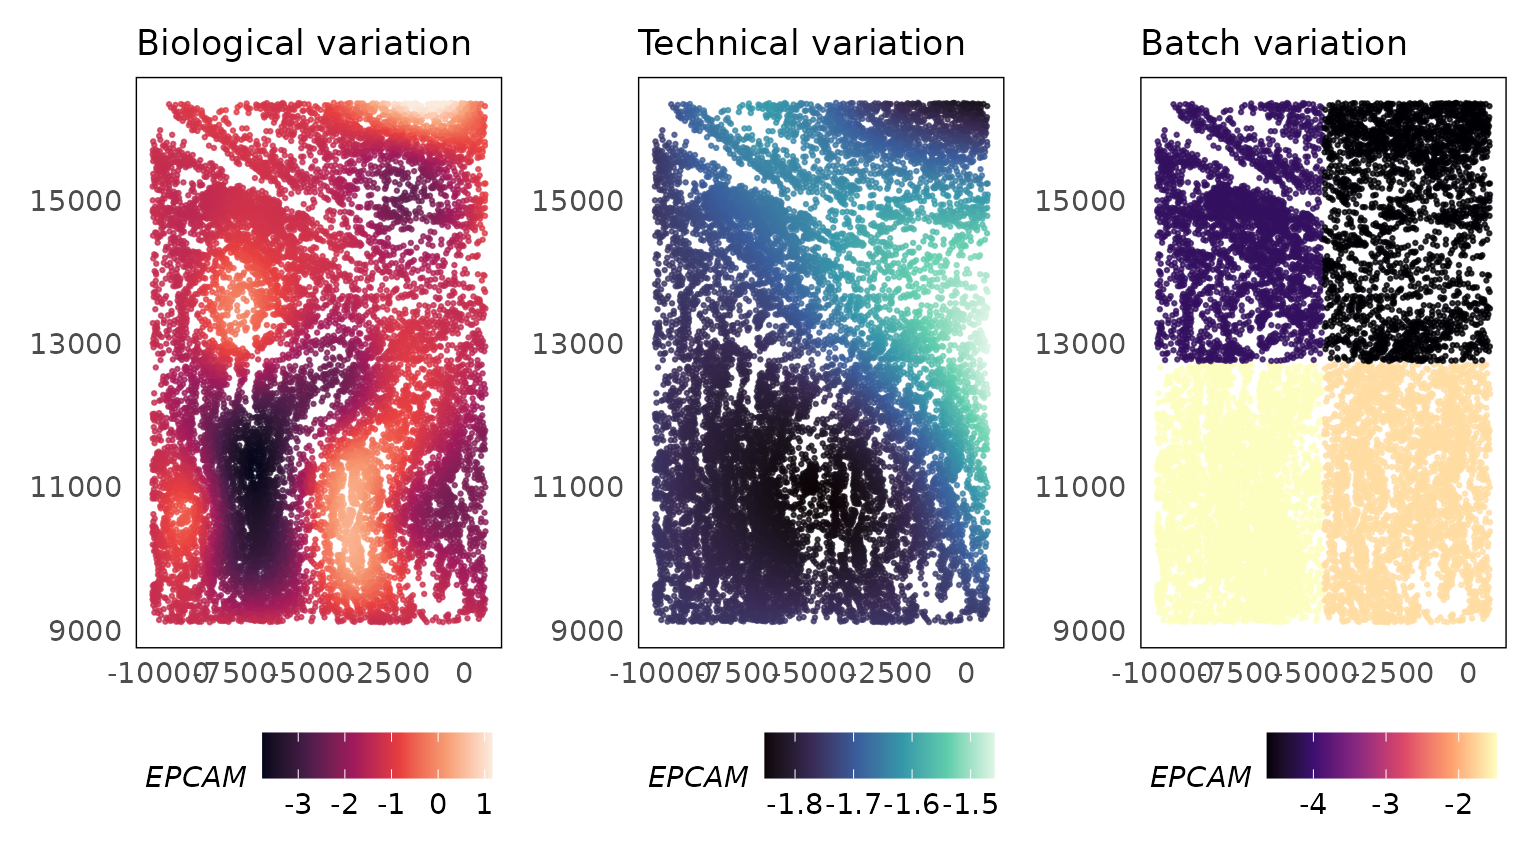
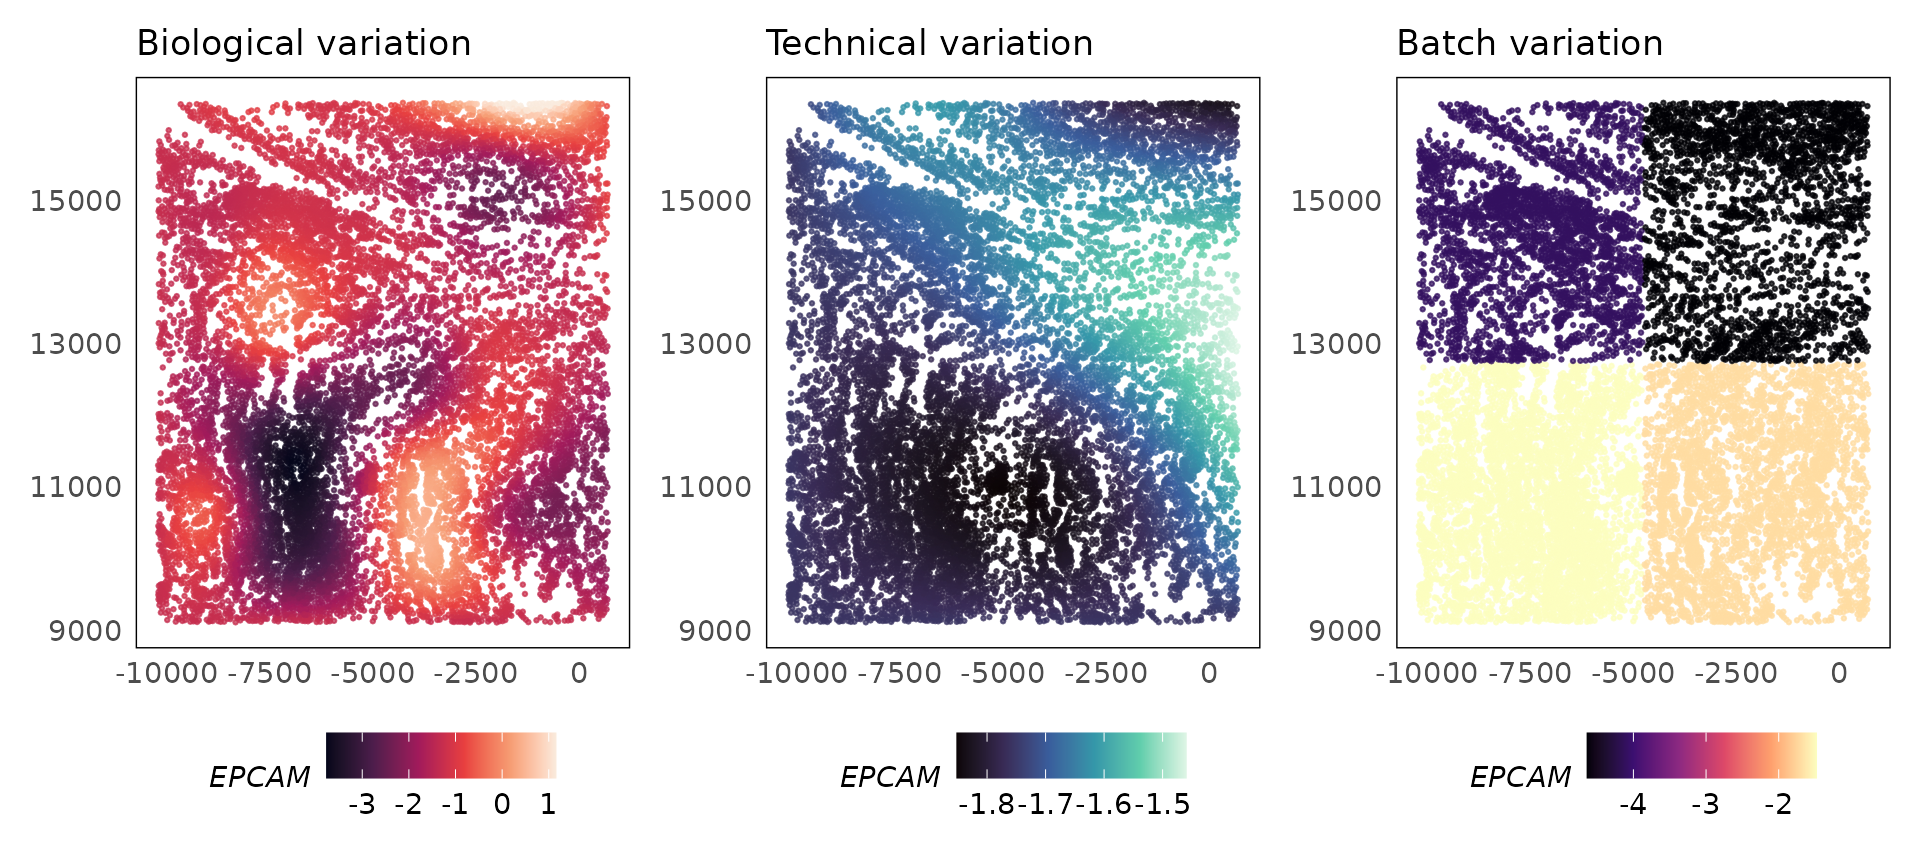
Deploying to gh-pages from @ bhuvad/CosMxSpatialAnalysisWorkshop@ed5cb82cb5ad495942af6a1cc3c30afe73c8c3e2 🚀

diff --git a/articles/workflow_spatial_cosmx.html b/articles/workflow_spatial_cosmx.html
@@ -173,7 +173,7 @@ workshop comes from 4 fields of view (FOVs) from the sample labeled
 Lung5_Rep3. This window is shown in the context of the full tissue
 below.</p>
 <div class="float">
-<img src="https://raw.githubusercontent.com/bhuvad/XeniumSpatialAnalysisWorkshop/refs/heads/main/inst/extdata/full_tissue.png" alt="The CosMx non-small cell lung cancer (NSCLC) dataset."><div class="figcaption">The CosMx non-small cell lung cancer (NSCLC)
+<img src="https://raw.githubusercontent.com/bhuvad/CosMxSpatialAnalysisWorkshop/refs/heads/main/inst/extdata/full_tissue.png" alt="The CosMx non-small cell lung cancer (NSCLC) dataset."><div class="figcaption">The CosMx non-small cell lung cancer (NSCLC)
 dataset.</div>
 </div>
 <div class="sourceCode" id="cb1"><pre class="downlit sourceCode r">
@@ -539,7 +539,7 @@ the data as they are designed to not measure any biology (i.e., the are
 synthetic probes designed to not hybridise with any transcripts in the
 system).</p>
 <div class="float">
-<img src="https://raw.githubusercontent.com/bhuvad/XeniumSpatialAnalysisWorkshop/refs/heads/main/inst/extdata/neg_probes_normalisation.png" alt="Using negative control probes to normalise spatial transcriptomics data."><div class="figcaption">Using negative control probes to normalise
+<img src="https://raw.githubusercontent.com/bhuvad/CosMxSpatialAnalysisWorkshop/refs/heads/main/inst/extdata/neg_probes_normalisation.png" alt="Using negative control probes to normalise spatial transcriptomics data."><div class="figcaption">Using negative control probes to normalise
 spatial transcriptomics data.</div>
 </div>
 <p>Though it is ideal to use negative control probes for normalisation
@@ -582,7 +582,7 @@ constrained regularised generalised linear model to model library size
 effects and subsequently adjust the data. This is done by calling the
 <code><a href="https://bhuvad.github.io/spaNorm/reference/SpaNorm.html" class="external-link">SpaNorm()</a></code> function on a SpatialExperiment object.</p>
 <div class="float">
-<img src="https://raw.githubusercontent.com/bhuvad/XeniumSpatialAnalysisWorkshop/refs/heads/main/inst/extdata/spanorm_schematic.png" alt="A schematic diagram of the SpaNorm normalisation method."><div class="figcaption">A schematic diagram of the SpaNorm normalisation
+<img src="https://raw.githubusercontent.com/bhuvad/CosMxSpatialAnalysisWorkshop/refs/heads/main/inst/extdata/spanorm_schematic.png" alt="A schematic diagram of the SpaNorm normalisation method."><div class="figcaption">A schematic diagram of the SpaNorm normalisation
 method.</div>
 </div>
 <p>The key parameters for SpaNorm normalisation that need to be adjusted
@@ -659,7 +659,7 @@ function evaluates at the mean library size below.</p>
 <span>  <span class="fu"><a href="https://ggplot2.tidyverse.org/reference/labs.html" class="external-link">ggtitle</a></span><span class="op">(</span><span class="st">"Batch variation"</span><span class="op">)</span> <span class="op">+</span></span>
 <span>  <span class="fu"><a href="https://ggplot2.tidyverse.org/reference/theme.html" class="external-link">theme</a></span><span class="op">(</span>legend.position <span class="op">=</span> <span class="st">"bottom"</span><span class="op">)</span></span>
 <span><span class="va">p1</span> <span class="op">+</span> <span class="va">p2</span> <span class="op">+</span> <span class="va">p3</span></span></code></pre></div>
-<p><img src="workflow_spatial_cosmx_files/figure-html/unnamed-chunk-16-1.png" width="768"></p>
+<p><img src="workflow_spatial_cosmx_files/figure-html/unnamed-chunk-16-1.png" width="960"></p>
 <p><a href="https://www.genecards.org/cgi-bin/carddisp.pl?gene=DHRS" class="external-link"><em>EPCAM</em></a>
 is an epithelial cell marker gene that will also be expressed in lung
 cancer cells that are of epithelial origin. The SpaNorm model correctly
@@ -711,7 +711,7 @@ variable genes (SVGs). Results of the test are stored in the
 <code>rowData</code> of the SpatialExperiment object, but can also be
 retrieved using the <code><a href="https://bhuvad.github.io/spaNorm/reference/topSVGs.html" class="external-link">topSVGs()</a></code> function.</p>
 <div class="float">
-<img src="https://raw.githubusercontent.com/bhuvad/XeniumSpatialAnalysisWorkshop/refs/heads/main/inst/extdata/spanorm_svg_schematic.png" alt="A schematic diagram of the SpaNormSVG normalisation method."><div class="figcaption">A schematic diagram of the SpaNormSVG
+<img src="https://raw.githubusercontent.com/bhuvad/CosMxSpatialAnalysisWorkshop/refs/heads/main/inst/extdata/spanorm_svg_schematic.png" alt="A schematic diagram of the SpaNormSVG normalisation method."><div class="figcaption">A schematic diagram of the SpaNormSVG
 normalisation method.</div>
 </div>
 <div class="sourceCode" id="cb27"><pre class="downlit sourceCode r">
